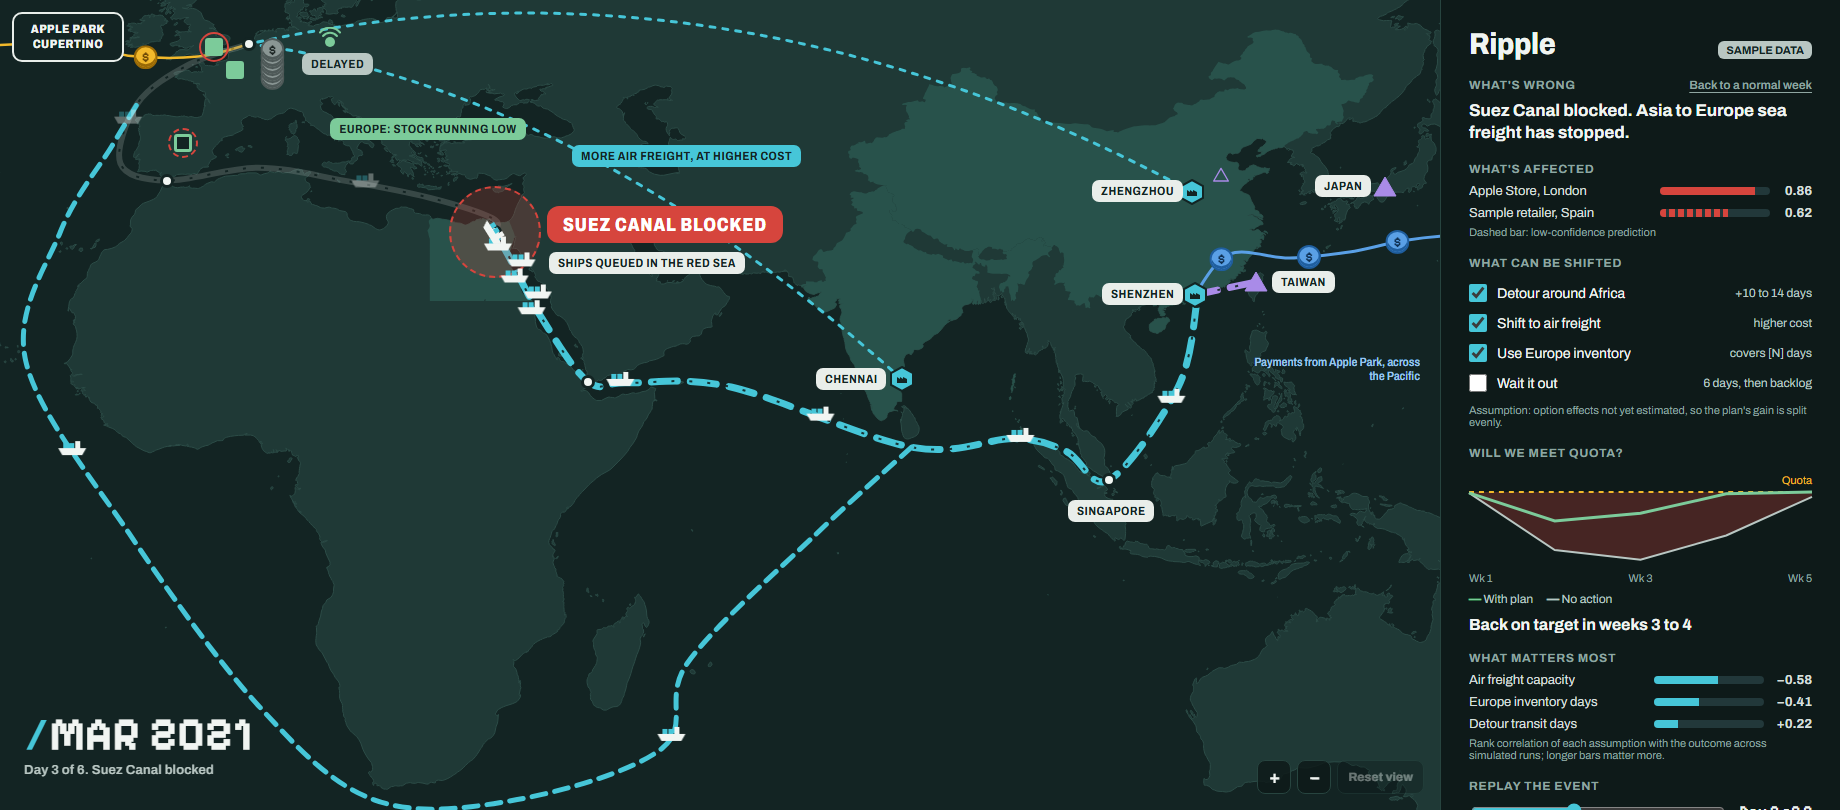
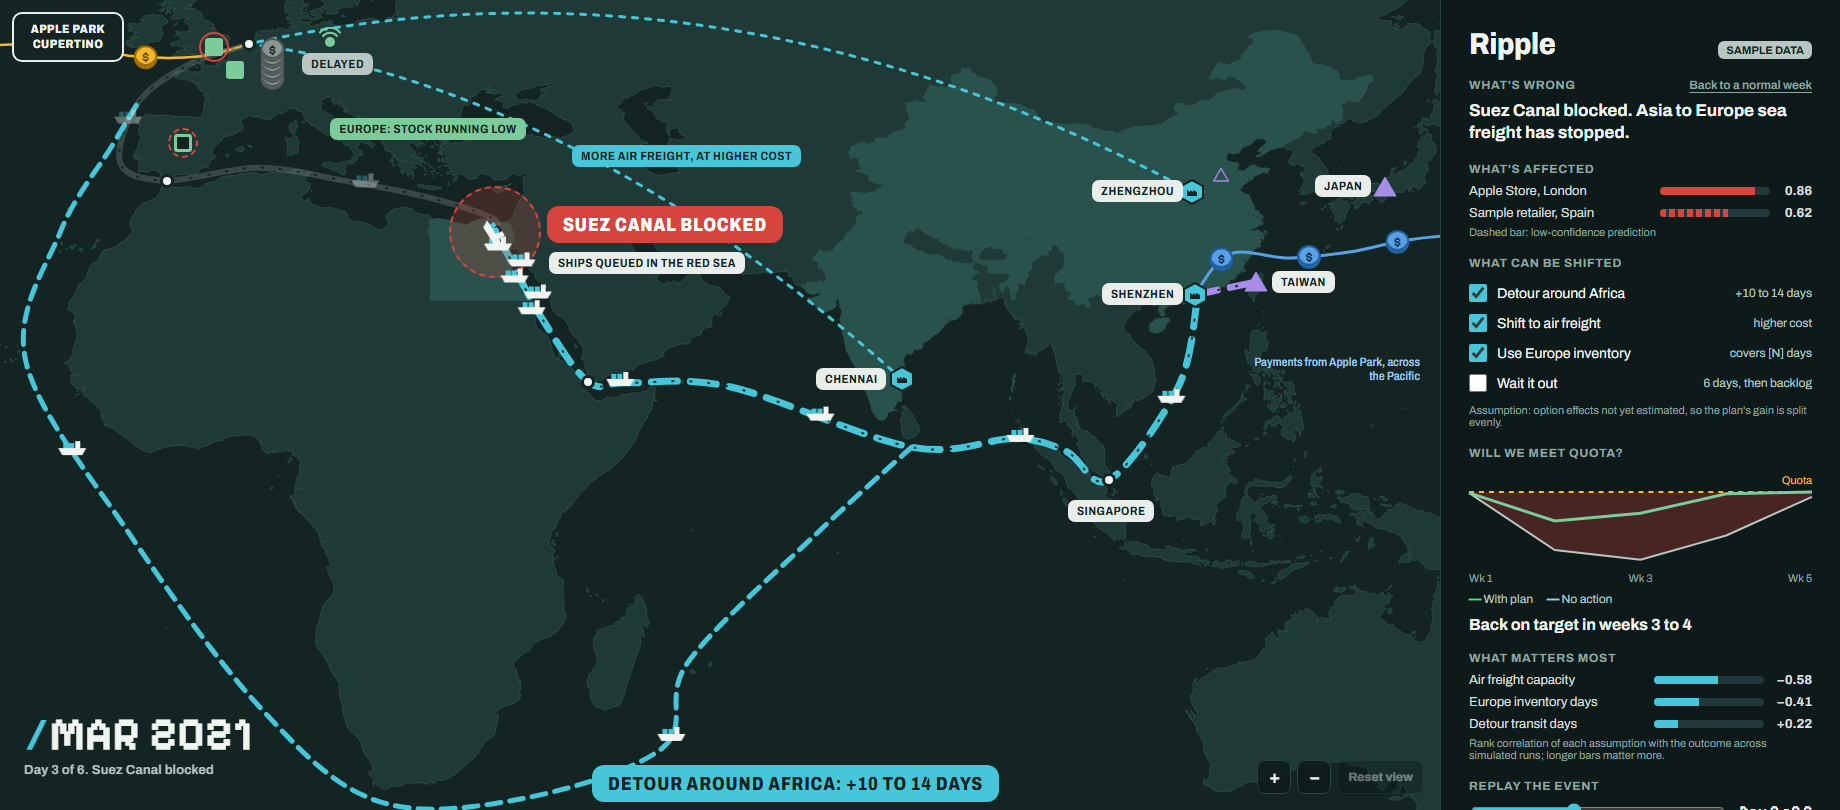
W4: illustrative trade lanes when the data has no routes
The real export states that transport routes are unknown and has no edges,
so the map lost its sea lanes, ships, and flights. When the network has no
edges, typical lanes from public geography (Asia-Europe via Suez, around the
Cape, trans-Pacific, trans-Atlantic, Asia-Europe air) are drawn, dashed as
inferred and noted in the panel as not supplier-specific. A scenario's shock
location closes the nearest chokepoint (sea) or port (land), greys the lanes
beyond it, shows the Cape detour, and expedites air freight. Pipeline edges,
when exported, replace this layer. Pills now stay in the concept view when
the point they label is in it, restoring the detour pill.

Changed region(s): [[0.3098, 0.9259, 0.5576, 1.0]]

diff --git a/web/lib/lanes.ts b/web/lib/lanes.ts
@@ -1,0 +1,153 @@
+// Illustrative trade lanes: typical sea lanes and air corridors from public geography.
+//
+// The real export states that supplier transport routes are unknown (it has no edges).
+// So the map keeps the concept art's lanes, ships, and flights, these lanes are added
+// only when the network has no edges of its own. They are marked `inferred` (drawn
+// dashed) and `illustrative`, and the panel says they are not supplier-specific.
+// Once the pipeline exports its own edges, this layer is not used.
+
+import { continentOf } from "./layout";
+import type { Network, NetworkEdge, NetworkNode, NodeKind, Scenario, Source } from "./types";
+
+const SOURCE: Source = {
+  title: "Illustrative lane from public geography (major shipping lanes and chokepoints); not a supplier-specific route",
+  url: "",
+};
+
+function node(id: string, name: string, kind: NodeKind, lon: number, lat: number, region: string, extra: Partial<NetworkNode> = {}): NetworkNode {
+  return {
+    id,
+    name,
+    kind,
+    tier: 5,
+    lon,
+    lat,
+    precision: "city",
+    region,
+    ticker: null,
+    partType: null,
+    appleRevenueShare: null,
+    sources: [SOURCE],
+    illustrative: true,
+    ...extra,
+  };
+}
+
+const NODES: NetworkNode[] = [
+  node("lane-port-shanghai", "Shanghai port", "port", 121.8, 31.0, "China"),
+  node("lane-port-hongkong", "Hong Kong port", "port", 114.2, 22.0, "Hong Kong"),
+  node("lane-port-singapore", "Singapore port", "port", 104.0, 1.2, "Singapore"),
+  node("lane-bab-el-mandeb", "Bab-el-Mandeb", "canal", 43.4, 12.6, "Red Sea"),
+  node("lane-suez-canal", "Suez Canal", "canal", 32.5, 30.0, "Egypt"),
+  node("lane-port-rotterdam", "Rotterdam port", "port", 4.0, 51.9, "Netherlands"),
+  node("lane-port-losangeles", "Los Angeles port", "port", -118.2, 33.7, "California, USA"),
+  node("lane-port-newyork", "New York port", "port", -74.0, 40.6, "New York, USA"),
+  node("lane-airport-frankfurt", "Frankfurt airport", "airport", 8.57, 50.03, "Germany"),
+  // Where the trans-Pacific lane leaves the east edge of the map and re-enters on the west.
+  node("lane-dateline-east", "International Date Line", "border", 180, 41, "Pacific Ocean", { waypoint: true }),
+  node("lane-dateline-west", "International Date Line", "border", -180, 41, "Pacific Ocean", { waypoint: true }),
+];
+
+function edge(id: string, from: string, to: string, mode: "sea" | "air", via: [number, number][] = [], extra: Partial<NetworkEdge> = {}): NetworkEdge {
+  return { id, from, to, mode, carriesTier: 4, status: "inferred", sources: [SOURCE], via: via.length ? via : undefined, illustrative: true, ...extra };
+}
+
+const EDGES: NetworkEdge[] = [
+  // Asia to Europe through Suez, split at the chokepoints so a shock can stop part of it.
+  edge("lane-sea-shanghai-hongkong", "lane-port-shanghai", "lane-port-hongkong", "sea", [[122.6, 28], [119.8, 24.2]]),
+  edge("lane-sea-hongkong-singapore", "lane-port-hongkong", "lane-port-singapore", "sea", [[112, 12]]),
+  edge("lane-sea-singapore-babelmandeb", "lane-port-singapore", "lane-bab-el-mandeb", "sea", [[99, 4.5], [93, 6], [81, 5], [60, 12], [48, 12.5]]),
+  edge("lane-sea-babelmandeb-suez", "lane-bab-el-mandeb", "lane-suez-canal", "sea", [[38, 20], [34, 27.5]]),
+  edge("lane-sea-suez-rotterdam", "lane-suez-canal", "lane-port-rotterdam", "sea", [[32.3, 31.6], [25, 34], [15, 36], [5, 37.5], [-5.6, 36], [-11, 38], [-9, 45], [-3, 49.5]]),
+  // Around Africa: only drawn as a detour when Suez or the Red Sea is shut.
+  edge(
+    "lane-sea-cape",
+    "lane-port-singapore",
+    "lane-port-rotterdam",
+    "sea",
+    [[81, 5], [70, -5], [55, -20], [52, -30], [35, -36], [18.5, -36], [5, -25], [-10, -5], [-22, 15], [-18, 30], [-12, 40], [-9, 45], [-3, 49.5]],
+    { detourOnly: true, avoids: ["lane-suez-canal", "lane-bab-el-mandeb"], label: "Detour around Africa" },
+  ),
+  // Across the Pacific, split where it crosses the date line.
+  edge("lane-sea-transpacific-east", "lane-port-shanghai", "lane-dateline-east", "sea", [[130, 32.5], [145, 36.5], [163, 39.5]]),
+  edge("lane-sea-transpacific-west", "lane-dateline-west", "lane-port-losangeles", "sea", [[-160, 40], [-140, 37.5], [-125, 34.5]]),
+  // Across the Atlantic.
+  edge("lane-sea-transatlantic", "lane-port-rotterdam", "lane-port-newyork", "sea", [[-3, 49.5], [-12, 49], [-30, 46], [-50, 42], [-65, 40.5]]),
+  // Air freight, Asia to Europe.
+  edge("lane-air-hongkong-frankfurt", "lane-port-hongkong", "lane-airport-frankfurt", "air"),
+  edge("lane-air-shanghai-frankfurt", "lane-port-shanghai", "lane-airport-frankfurt", "air"),
+];
+
+/** True when the network has no routes of its own, so illustrative lanes are drawn instead. */
+export function needsIllustrativeLanes(network: Network): boolean {
+  return network.edges.length === 0;
+}
+
+/** The network plus illustrative lanes, or the network unchanged when it has its own edges. */
+export function withIllustrativeLanes(network: Network): Network {
+  if (!needsIllustrativeLanes(network)) return network;
+  return { ...network, nodes: [...network.nodes, ...NODES], edges: [...EDGES] };
+}
+
+const SEA_SHOCK_RADIUS_DEG = 12;
+const PORT_SHOCK_RADIUS_DEG = 1.5;
+
+/**
+ * For a scenario that gives only a shock location (no shock nodes, no affected routes),
+ * work out which illustrative lanes it touches. Sea shocks close the nearest chokepoint;
+ * a shock at a port closes lanes leaving it. Inland shocks touch no lanes.
+ * Scenarios with their own shock nodes or affected routes are returned unchanged.
+ */
+export function withIllustrativeEffects(scenario: Scenario, network: Network): Scenario {
+  const lanes = network.edges.filter((e) => e.illustrative);
+  const loc = scenario.shock.location;
+  const own = scenario.shock.nodeIds.length > 0 || Object.values(scenario.affectedRoutes).some((l) => l.length > 0);
+  if (lanes.length === 0 || !loc || own) return scenario;
+
+  const laneNodes = network.nodes.filter((n) => n.illustrative && !n.waypoint);
+  const dist = (n: NetworkNode) => Math.hypot(n.lon - loc.lon, n.lat - loc.lat);
+  const nearest = (kinds: NodeKind[], radius: number) =>
+    laneNodes.filter((n) => kinds.includes(n.kind) && dist(n) <= radius).sort((a, b) => dist(a) - dist(b))[0];
+  const hit = scenario.type === "sea" ? nearest(["canal"], SEA_SHOCK_RADIUS_DEG) : nearest(["port"], PORT_SHOCK_RADIUS_DEG);
+  if (!hit) return scenario;
+
+  // A detour exists when a detour-only lane avoids the shocked chokepoint.
+  const detours = lanes.filter((e) => e.detourOnly && e.avoids?.includes(hit.id));
+  const rejoin = new Set(detours.map((d) => d.to));
+
+  // Block lanes leaving the shocked point, following the chain until a detour rejoins it.
+  const blocked: string[] = [];
+  const sea = lanes.filter((e) => e.mode === "sea" && !e.detourOnly);
+  let frontier = [hit.id];
+  const seen = new Set<string>();
+  while (frontier.length) {
+    const next: string[] = [];
+    for (const id of frontier) {
+      for (const e of sea.filter((x) => x.from === id && !seen.has(x.id))) {
+        seen.add(e.id);
+        blocked.push(e.id);
+        if (detours.length > 0 && !rejoin.has(e.to)) next.push(e.to);
+      }
+    }
+    frontier = next;
+  }
+
+  // Flights out of a shut port are grounded too.
+  const air = lanes.filter((e) => e.mode === "air");
+  if (hit.kind === "port") for (const e of air) if (e.from === hit.id) blocked.push(e.id);
+
+  // Air freight picks up the slack on flights to the continent the blocked sea lanes were heading for.
+  const byId = new Map(network.nodes.map((n) => [n.id, n]));
+  const continent = (id: string) => {
+    const n = byId.get(id);
+    return n ? continentOf(n.lon, n.lat) : "";
+  };
+  const cutOff = new Set(blocked.map((id) => lanes.find((e) => e.id === id)!).filter((e) => e.mode === "sea").map((e) => continent(e.to)));
+  const expedited = air.filter((e) => !blocked.includes(e.id) && cutOff.has(continent(e.to))).map((e) => e.id);
+
+  return {
+    ...scenario,
+    shock: { ...scenario.shock, nodeIds: [hit.id] },
+    affectedRoutes: { blocked, detour: detours.map((d) => d.id), expedited },
+  };
+}

diff --git a/web/components/RippleApp.tsx b/web/components/RippleApp.tsx
@@ -3,6 +3,7 @@
 import { useCallback, useEffect, useMemo, useState } from "react";
 import { loadForecasts, loadMetrics, loadNetwork, loadScenario, loadScenarioIndex } from "@/lib/data";
 import { computeLayout } from "@/lib/layout";
+import { needsIllustrativeLanes, withIllustrativeEffects, withIllustrativeLanes } from "@/lib/lanes";
 import { buildDisruptionScene } from "@/lib/disruption";
 import { daysBetween, monthYear } from "@/lib/format";
 import { buildFreeFlowScene, freeFlowEdges } from "@/lib/scene";
@@ -30,11 +31,11 @@ function readParam(name: string): string | null {
 }
 
 export default function RippleApp() {
-  const [network, setNetwork] = useState<Network | null>(null);
+  const [rawNetwork, setNetwork] = useState<Network | null>(null);
   const [networkMissing, setNetworkMissing] = useState(false);
   const [index, setIndex] = useState<ScenarioIndexEntry[]>([]);
   const [scenarioId, setScenarioId] = useState<string | null>(null);
-  const [scenario, setScenario] = useState<Scenario | null>(null);
+  const [rawScenario, setScenario] = useState<Scenario | null>(null);
   const [dropped, setDropped] = useState(false);
   const [metrics, setMetrics] = useState<Metrics | null>(null);
   const [selectedId, setSelectedId] = useState<string | null>(null);
@@ -75,6 +76,16 @@ export default function RippleApp() {
       live = false;
     };
   }, [scenarioId]);
+
+  // With no routes in the data, typical lanes stand in so the map keeps its sea lanes, ships, and flights.
+  const network = useMemo(() => (rawNetwork ? withIllustrativeLanes(rawNetwork) : null), [rawNetwork]);
+  const illustrative = Boolean(rawNetwork && needsIllustrativeLanes(rawNetwork));
+  const scenario = useMemo(() => (rawScenario && network ? withIllustrativeEffects(rawScenario, network) : rawScenario), [rawScenario, network]);
+  const lanesNote = illustrative ? (
+    <div className="panel-tiny" data-note="illustrative-lanes">
+      Dashed lanes, ships, and flights are typical routes from public geography, not supplier-specific: the data does not include transport routes.
+    </div>
+  ) : null;
 
   const sample = Boolean(network?.sampleData || scenario?.sampleData || metrics?.sampleData);
 
@@ -232,6 +243,7 @@ export default function RippleApp() {
           </NodeDetailPanel>
         ) : disrupted ? (
           <DisruptionPanel sample={sample} scenario={scenario!} network={network} onClear={clear} showActual={eventOver} onSelectNode={selectNode} picker={picker}>
+            {lanesNote}
             <ReplaySection
               scenario={scenario!}
               metrics={metrics}
@@ -242,6 +254,7 @@ export default function RippleApp() {
           </DisruptionPanel>
         ) : (
           <FreeFlowPanel sample={sample} scenario={scenario} onDrop={drop}>
+            {lanesNote}
             {picker}
           </FreeFlowPanel>
         )}

diff --git a/web/lib/disruption.ts b/web/lib/disruption.ts
@@ -94,6 +94,7 @@ export function buildDisruptionScene(network: Network, layout: MapLayout, scenar
   const paths = new Map<string, Polyline>();
   for (const edge of network.edges) {
     const state = stateOf(edge.id);
+    if (edge.detourOnly && state !== "detour") continue;
     const tint = tierColor[edge.carriesTier] ?? color.pillLight;
     if (state === "detour") {
       const pts = trimmedDetour(edge, network);
@@ -165,9 +166,13 @@ export function buildDisruptionScene(network: Network, layout: MapLayout, scenar
       // Name the water they queue in: the last shipping node the lane passes before the shock.
       const via = (r.edge.via ?? []).map(key);
       const upstream = network.nodes.filter((n) => (n.kind === "canal" || n.kind === "port") && via.includes(key([n.lon, n.lat])));
+      const fromNode = nodes.get(r.edge.from);
       if (upstream.length) {
         const last = upstream.reduce((a, b) => (via.lastIndexOf(key([b.lon, b.lat])) > via.lastIndexOf(key([a.lon, a.lat])) ? b : a));
         queuedUpstream = last.region;
+      } else if (fromNode?.kind === "canal") {
+        // The lane starts at the previous chokepoint: ships wait in its waters.
+        queuedUpstream = fromNode.region;
       }
     }
   }
@@ -252,11 +257,12 @@ export function buildDisruptionScene(network: Network, layout: MapLayout, scenar
   }
   const detourOpt = optionMatching(scenario, /detour/i);
   const detourRoute = routes.find((r) => r.state === "detour");
-  if (detourOpt && detourRoute) {
-    const text = `${detourOpt.label}: ${detourOpt.detail}`.toUpperCase();
+  const detourText = detourOpt ? `${detourOpt.label}: ${detourOpt.detail}` : detourRoute?.edge.label;
+  if (detourText && detourRoute) {
+    const text = detourText.toUpperCase();
     const { w, h } = largePillBox(text);
     const at = paths.get(detourRoute.id)!.atFraction(0.3);
-    const box = placeBox(spiral(at[0] + 10, at[1] + 40, w, h, 160), layout, { ignoreRoutes: true });
+    const box = placeBox(spiral(at[0] + 10, at[1] + 40, w, h, 160), layout, { ignoreRoutes: true, anchor: at });
     if (box) pills.push({ key: "detour", text, big: true, bg: tierColor[4], fg: color.ocean, x: box.x, y: box.y });
   }
   const airOpt = optionMatching(scenario, /air/i);

diff --git a/web/lib/scene.ts b/web/lib/scene.ts
@@ -103,7 +103,7 @@ export const MONEY_COINS = 3;
 /** Edges drawn in free flow: everything except routes that only exist as a scenario's detour. */
 export function freeFlowEdges(network: Network, scenario: Scenario | null): NetworkEdge[] {
   const detourOnly = new Set(scenario?.affectedRoutes.detour ?? []);
-  return network.edges.filter((e) => !detourOnly.has(e.id));
+  return network.edges.filter((e) => !detourOnly.has(e.id) && !e.detourOnly);
 }
 
 /** Where revenue leaves each regional sales group: its nearest shipping node, or the group's first node. */
@@ -320,7 +320,7 @@ export function routePills(network: Network, layout: MapLayout, routes: RouteDra
       const { w, h } = largePillBox(text);
       const near = longest.pts.filter((p) => Math.abs(p[0] - mid[0]) < w / 2 + 10);
       const lowest = Math.max(...near.map((p) => p[1]));
-      const box = placeBox(spiral(mid[0] - w / 2, lowest + 23, w, h), layout);
+      const box = placeBox(spiral(mid[0] - w / 2, lowest + 23, w, h), layout, { anchor: mid });
       if (box) pills.push({ key: `lane-${chain[0].id}`, text, big: true, bg: tierColor[4], fg: color.ocean, x: box.x, y: box.y });
     }
   }
@@ -333,7 +333,7 @@ export function routePills(network: Network, layout: MapLayout, routes: RouteDra
     const m = mids.reduce((a, b) => (b[1] > a[1] ? b : a));
     const text = disrupted ? `MORE AIR FREIGHT${airDetail ? `, AT ${airDetail}` : ""}`.toUpperCase() : "AIR FREIGHT";
     const { w, h } = smallPillBox(text);
-    const box = placeBox(spiral(m[0] - 37, m[1] - 31, w, h), layout);
+    const box = placeBox(spiral(m[0] - 37, m[1] - 31, w, h), layout, { anchor: m });
     if (box) pills.push({ key: "air", text, big: false, bg: tierColor[4], fg: color.ocean, x: box.x, y: box.y });
   }
 

diff --git a/web/lib/layout.ts b/web/lib/layout.ts
@@ -124,9 +124,11 @@ export function spiral(x: number, y: number, w: number, h: number, maxR = 160, s
 }
 
 /** First candidate box that stays in frame and clear of `taken` and `obstacles`; it is then marked taken. */
-export function placeBox(candidates: Box[], layout: MapLayout, opts: { ignoreRoutes?: boolean } = {}): Box | null {
+export function placeBox(candidates: Box[], layout: MapLayout, opts: { ignoreRoutes?: boolean; anchor?: Pt } = {}): Box | null {
   const first = candidates[0];
-  const frame = first ? frameFor([first.x + first.w / 2, first.y + first.h / 2]) : FRAME;
+  // Stay in the concept view when the thing being labelled is in it.
+  const anchor = opts.anchor ?? (first ? ([first.x + first.w / 2, first.y + first.h / 2] as Pt) : null);
+  const frame = anchor ? frameFor(anchor) : FRAME;
   const pick = candidates.find(
     (b) =>
       within(b, frame) &&
@@ -170,7 +172,7 @@ export function computeLayout(network: Network, visibleEdges: NetworkEdge[], ext
   const onWorld = (n: NetworkNode) => inside(points.get(n.id)!, WORLD);
 
   // Obstacles: node symbols and sampled routes.
-  const nodeBoxes: Box[] = network.nodes.filter(onWorld).map((n) => {
+  const nodeBoxes: Box[] = network.nodes.filter((n) => onWorld(n) && !n.waypoint).map((n) => {
     const [x, y] = points.get(n.id)!;
     const s = symbolSize(n.kind);
     return { x: x - s / 2, y: y - s / 2, w: s, h: s };

diff --git a/web/lib/types.ts b/web/lib/types.ts
@@ -35,6 +35,10 @@ export interface NetworkNode {
   partType: string | null;
   appleRevenueShare: number | null;
   sources: Source[];
+  /** Added by the interface (lib/lanes.ts), not from the data files. */
+  illustrative?: boolean;
+  /** A routing point with no symbol (e.g. where a lane crosses the date line). */
+  waypoint?: boolean;
 }
 
 export type Mode = "sea" | "air" | "road" | "rail";
@@ -48,6 +52,14 @@ export interface NetworkEdge {
   status: "known" | "inferred";
   sources: Source[];
   via?: [number, number][];
+  /** Added by the interface (lib/lanes.ts), not from the data files. */
+  illustrative?: boolean;
+  /** Drawn only when a scenario uses it as a detour. */
+  detourOnly?: boolean;
+  /** Node ids this detour goes around. */
+  avoids?: string[];
+  /** Name for the detour pill when the scenario has no detour option. */
+  label?: string;
 }
 
 export interface Network {

diff --git a/web/components/NodeLayer.tsx b/web/components/NodeLayer.tsx
@@ -24,7 +24,7 @@ export default function NodeLayer({ network, layout, onSelect, selectedId, group
   return (
     <>
       {ordered.map((n) => {
-        if (n.kind === "hq") return null;
+        if (n.kind === "hq" || n.waypoint) return null;
         const [x, y] = layout.points.get(n.id)!;
         const s = symbolSize(n.kind);
         const label = `${n.name}, ${n.region}`;
